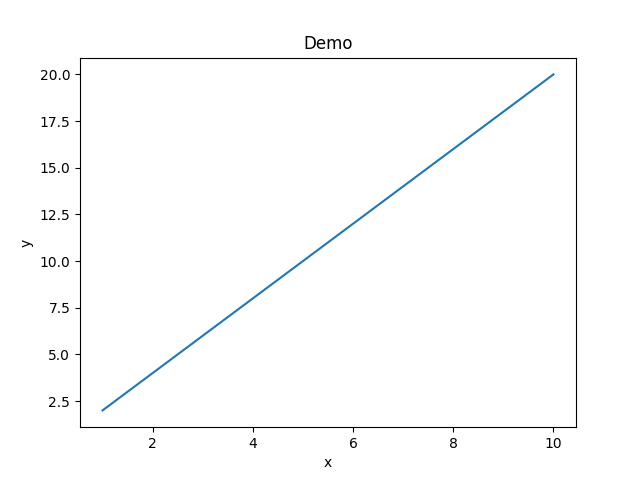
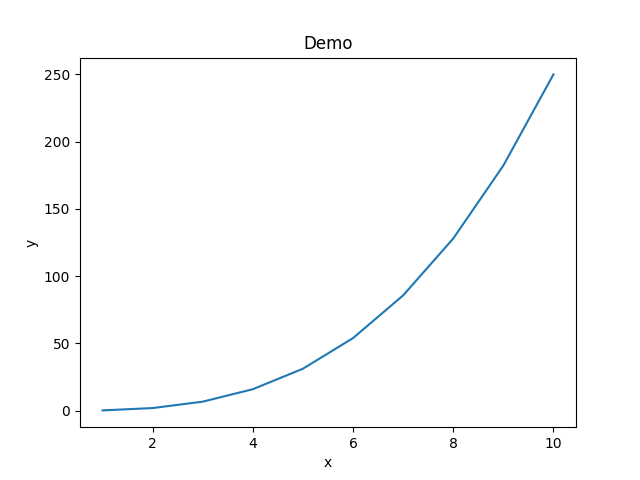
ejemplo00 v4

diff --git a/ml/ejemplo00/training.py b/ml/ejemplo00/training.py
@@ -26,8 +26,8 @@ model.compile(optimizer='sgd', loss="mean_squared_error", metrics=["accuracy"])
 En este ejemplo los datos de muestra se optienen de la funcion y = x * 2
 """
 
-xs = np.genfromtxt('datos0.csv', delimiter=',', skip_header=1 , usecols=0,dtype=float)
-ys = np.genfromtxt('datos0.csv', delimiter=',', skip_header=1 , usecols=1,dtype=float)
+xs = np.genfromtxt('datos1.csv', delimiter=',', skip_header=1 , usecols=0,dtype=float)
+ys = np.genfromtxt('datos1.csv', delimiter=',', skip_header=1 , usecols=1,dtype=float)
 
 x_training, x_test = xs[:8], xs[8:]
 y_training, y_test = ys[:8], ys[8:]
@@ -48,7 +48,7 @@ Se realiza el entrenamiento del modelo 500 epocas (veces), y en cada epoca se pu
 """
 
 tiempo_inicial = time() 
-model.fit(x_training,y_training, epochs=50)
+model.fit(x_training,y_training, epochs=5000,verbose=0,workers=10,use_multiprocessing=True)
 tiempo_final = time() 
 tiempo_ejecucion = tiempo_final - tiempo_inicial
 print("Training time:{}".format(tiempo_ejecucion))
